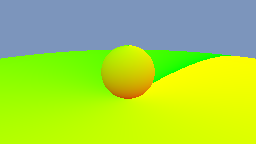
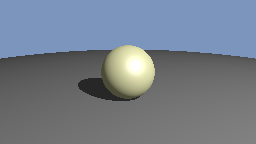
Basic complete

diff --git a/ray.py b/ray.py
@@ -36,7 +36,6 @@ class Ray:
 
 class Material:
 
-
     def __init__(self, k_d, k_s=0., p=20., k_m=0., k_a=None):
         """Create a new material with the given parameters.
 
@@ -68,6 +67,7 @@ class Material:
 #             print(j_pixel)
             return t[j_pixel][i_pixel]
 
+
 class Hit:
 
     def __init__(self, t, point=None, normal=None, uv=None, material=None):
@@ -86,8 +86,10 @@ class Hit:
         self.uv = uv
         self.material = material
 
+
 # Value to represent absence of an intersection
 no_hit = Hit(np.inf)
+
 
 class Sphere:
 
@@ -140,12 +142,11 @@ class Sphere:
 
         P = E + t * D
         unit_normal = (P - C) / R
-        normal = normalize(P - C)
         d_hat = normalize(P - C)
         u = 0.5 + (np.arctan2(d_hat[0], d_hat[2])) / (2 * np.pi)
         v = 0.5 + (np.arcsin(d_hat[1])) / np.pi
 
-        return Hit(t, P, unit_normal, vec([u,v]), self.material)
+        return Hit(t, P, unit_normal, vec([u, v]), self.material)
 
 
 class Triangle:
@@ -214,14 +215,13 @@ class Triangle:
 
         unit_normal = normalize(np.cross(vs[0] - vs[2], vs[1] - vs[2]))
 
-        A = np.linalg.norm(np.cross(vs[1] - vs[0],vs[2] - vs[0])) / 2
-        areaA = np.linalg.norm(np.cross(vs[1] - P,vs[2] - P)) / 2
-        areaB = np.linalg.norm(np.cross(vs[0] - P,vs[2] - P)) / 2
-        areaC = np.linalg.norm(np.cross(vs[0] - P,vs[1] - P)) / 2
+        A = np.linalg.norm(np.cross(vs[1] - vs[0], vs[2] - vs[0])) / 2
+        areaA = np.linalg.norm(np.cross(vs[1] - P, vs[2] - P)) / 2
+        areaB = np.linalg.norm(np.cross(vs[0] - P, vs[2] - P)) / 2
+        areaC = np.linalg.norm(np.cross(vs[0] - P, vs[1] - P)) / 2
         u = areaB / A
         v = areaC / A
         return Hit(t, P, unit_normal, vec([u, v]), self.material)
-
 
 
 class Mesh:
@@ -229,7 +229,8 @@ class Mesh:
     def __init__(self, inds, posns, normals, uvs, material):
         self.inds = np.array(inds, np.int32)
         self.posns = np.array(posns, np.float32)
-        self.normals = np.array(normals, np.float32) if normals is not None else None
+        self.normals = np.array(
+            normals, np.float32) if normals is not None else None
         self.uvs = np.array(uvs, np.float32) if uvs is not None else None
         self.material = material
 
@@ -243,19 +244,59 @@ class Mesh:
           Hit -- the hit data
         """
         # TODO A5 (Step3 and Step4) implement this function
-        # For step 4, check if uvs and normals are not None (respectively) 
+        # For step 4, check if uvs and normals are not None (respectively)
         # If so, then interpolate them
-        vs = 0
-        normal = 0
-        hit = batch_intersect(vs, ray)
-        if (hit[0] == no_hit):
+
+        # batch_intersect returns t, beta, gamma, i
+        posns = self.posns
+        uvs = self.uvs
+        inds = self.inds
+        normals = self.normals
+        t, beta, gamma, i = batch_intersect(posns[inds[:, :]], ray)
+        vs = posns[inds[i, :]]
+        P = ray.origin + t * ray.direction
+
+        if (t == np.inf):
             return no_hit
         else:
-            return Hit(hit[0] - ray.origin, hit[0], normal, vec([hit[1], hit[2]), self.material)
+
+            alpha = 1 - beta - gamma
+
+            if uvs is not None:
+
+                uv0 = uvs[inds[i][0]]
+                uv1 = uvs[inds[i][1]]
+                uv2 = uvs[inds[i][2]]
+
+                uv = alpha * uv0 + beta * uv1 + gamma * uv2
+
+            else:
+
+                A = np.linalg.norm(np.cross(vs[1] - vs[0], vs[2] - vs[0])) / 2
+                areaA = np.linalg.norm(np.cross(vs[1] - P, vs[2] - P)) / 2
+                areaB = np.linalg.norm(np.cross(vs[0] - P, vs[2] - P)) / 2
+                areaC = np.linalg.norm(np.cross(vs[0] - P, vs[1] - P)) / 2
+                u = areaB / A
+                v = areaC / A
+                uv = vec([u, v])
+
+            if normals is not None:
+
+                n0 = normals[inds[i][0]]
+                n1 = normals[inds[i][1]]
+                n2 = normals[inds[i][2]]
+
+                unit_normal = normalize(alpha * n0 + beta * n1 + gamma * n2)
+
+            else:
+                unit_normal = normalize(np.cross(vs[0] - vs[2], vs[1] - vs[2]))
+
+            return Hit(t, P, unit_normal, uv, self.material)
+
 
 class Camera:
 
-    def __init__(self, eye=vec([0,0,0]), target=vec([0,0,-1]), up=vec([0,1,0]), 
+    def __init__(self, eye=vec([0, 0, 0]), target=vec([0, 0, -1]), up=vec([0, 1, 0]),
                  vfov=90.0, aspect=1.0):
         """Create a camera with given viewing parameters.
 
@@ -385,7 +426,7 @@ class AmbientLight:
 
 class Scene:
 
-    def __init__(self, surfs, bg_color=vec([0.2,0.3,0.5])):
+    def __init__(self, surfs, bg_color=vec([0.2, 0.3, 0.5])):
         """Create a scene containing the given objects.
 
         Parameters:
@@ -417,8 +458,8 @@ class Scene:
         return i
 
 
-
 MAX_DEPTH = 4
+
 
 def shade(ray, hit, scene, lights, depth=0):
     """Compute shading for a ray-surface intersection.
@@ -439,7 +480,7 @@ def shade(ray, hit, scene, lights, depth=0):
     bg_color = scene.bg_color
 
     if (hit.t < np.inf):
-#        output = vec([hit.uv[0], hit.uv[1], 0])
+        #        output = vec([hit.uv[0], hit.uv[1], 0])
         output = vec([0, 0, 0])
         k_m = hit.material.lookup(hit.material.k_m, hit)
         if (depth < MAX_DEPTH):
@@ -488,4 +529,3 @@ def render_image(camera, scene, lights, nx, ny):
             img[y][x] = shade(ray, hit, scene, lights)
 
     return img
-

diff --git a/mesh_cube_tex.py b/mesh_cube_tex.py
@@ -5,7 +5,7 @@ from cli import render
 # For step 3, uncomment line 7 (i.e. use the faces texture) to match the reference image
 # This should also give the same textured cube as cube_tex
 tan = Material(load_image('textures/pips.png') * [[0.7, 0.7, 0.4]])
-# tan = Material(load_image('textures/faces.png'))
+# tan = Material(load_image('textures/face.png'))
 gray = Material(vec([0.2, 0.2, 0.2]))
 
 # Read the triangle mesh for a 2x2x2 cube, and scale it down to 1x1x1 to fit the scene.
@@ -13,16 +13,16 @@ gray = Material(vec([0.2, 0.2, 0.2]))
 
 scene = Scene([
     # Make a big sphere for the floor
-    Sphere(vec([0,-40,0]), 39.5, gray),
+    Sphere(vec([0, -40, 0]), 39.5, gray),
 ] + [
     Mesh(i, 0.5*p, None, t, tan),
 ])
 
 lights = [
-    PointLight(vec([12,10,5]), vec([300,300,300])),
+    PointLight(vec([12, 10, 5]), vec([300, 300, 300])),
     AmbientLight(0.1),
 ]
 
-camera = Camera(vec([3,1.7,5]), target=vec([0,0,0]), vfov=25, aspect=16/9)
+camera = Camera(vec([3, 1.7, 5]), target=vec([0, 0, 0]), vfov=25, aspect=16/9)
 
 render(camera, scene, lights)
